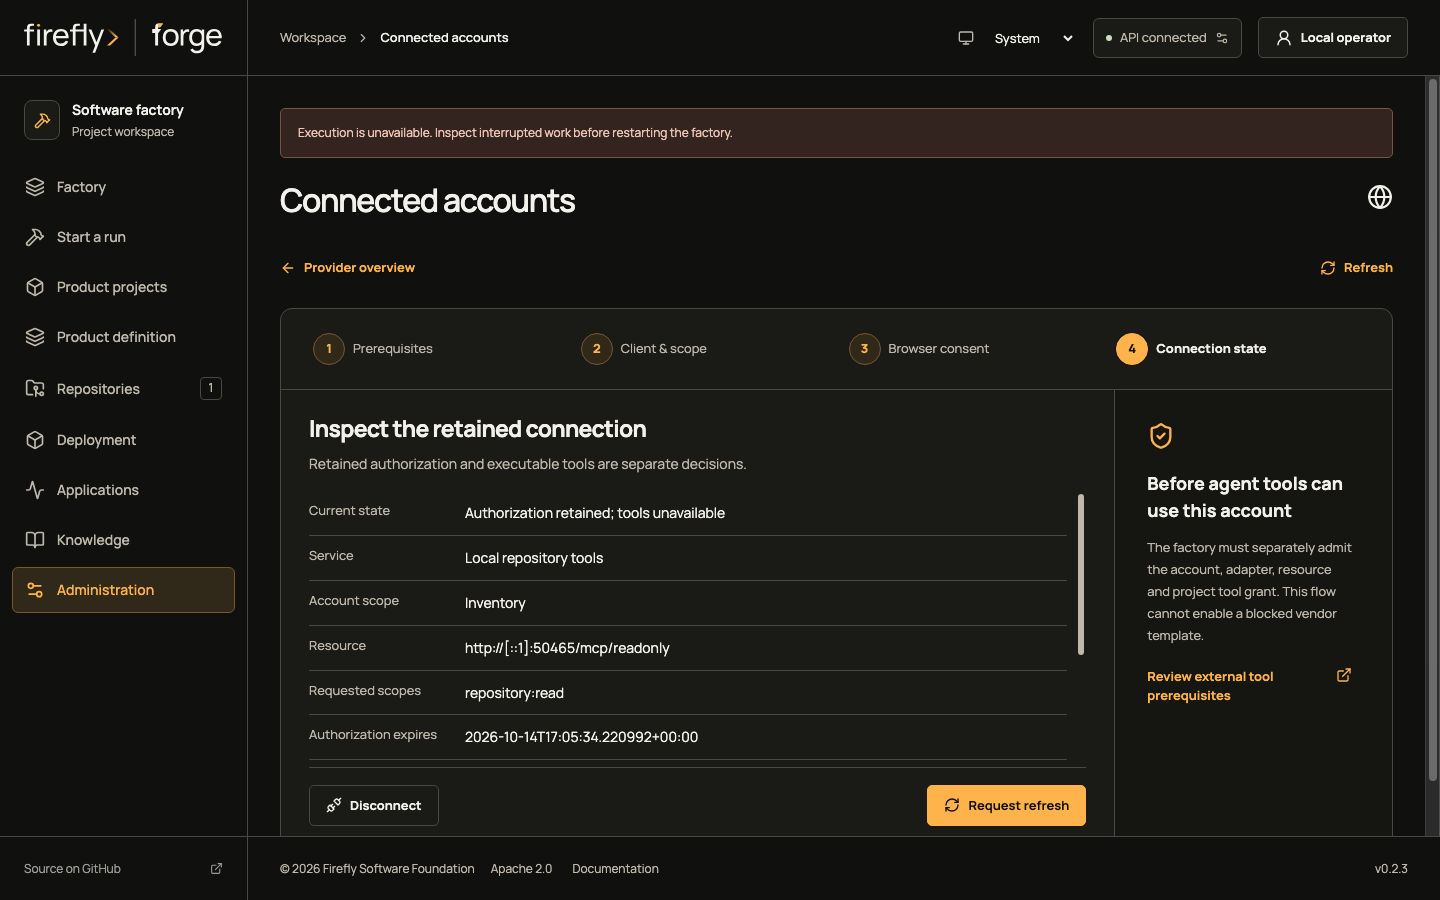
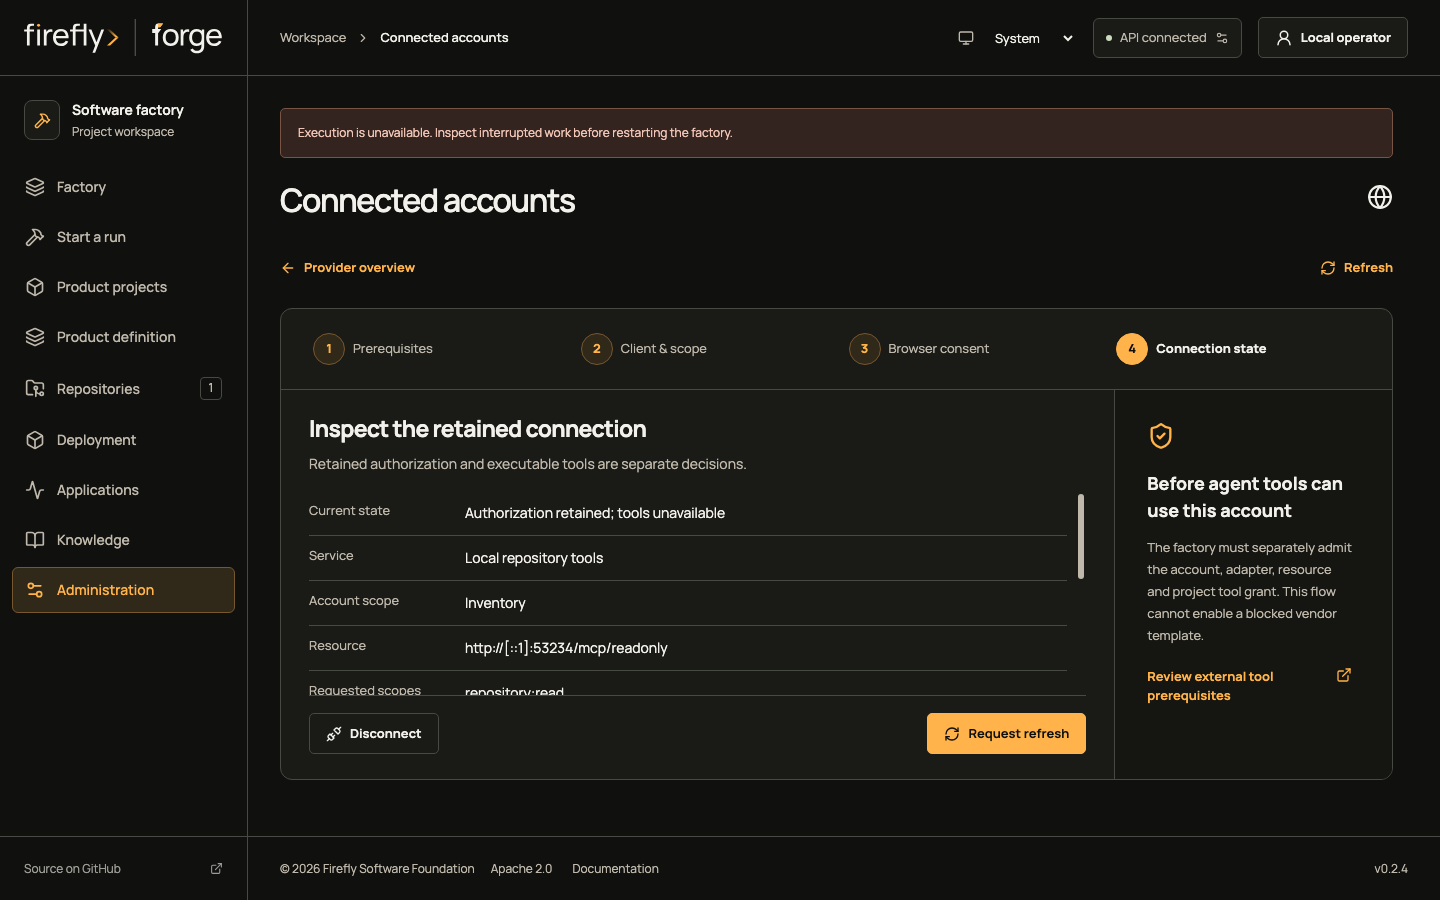
Bind OAuth guide captures to qualified 0.2.4 source

Changed region(s): [[0.2188, 0.7778, 0.7812, 0.9333], [0.9688, 0.0933, 1.0, 0.9333], [0.375, 0.7156, 0.4688, 0.7467]]

diff --git a/docs/connected-accounts.md b/docs/connected-accounts.md
@@ -8,7 +8,7 @@ description: Configure the owned local OAuth service, register a client, complet
 
 Open **Administration → Connected accounts** as a current factory administrator. This page configures the owned local repository service, registers its client, opens browser consent and shows the retained connection state. Account authorization is followed by separate MCP schema review and project/tool grants.
 
-The native captures below retain their original Studio 0.2.3 source identity. They show an isolated API-only qualification with an owned provider and synthetic data. Current 0.2.4 walkthrough fixtures are captured separately. The execution warning reflects that API-only topology; worker readiness is a separate check.
+The four native captures below show Studio 0.2.4 at its recorded source revision, during an isolated API-only qualification with an owned provider and synthetic data. The broader walkthrough uses its separately identified API fixtures. The execution warning reflects that API-only topology; worker readiness is a separate check.
 
 The supported `local-repository-tools` provider is for explicit local development. GitHub, Figma, Sentry, Grafana and external Playwright OAuth remain at **Prerequisite required**. Native GitHub App SCM, the fixed GitHub token MCP adapter and the native BrowserRunner retain their own setup paths.
 
